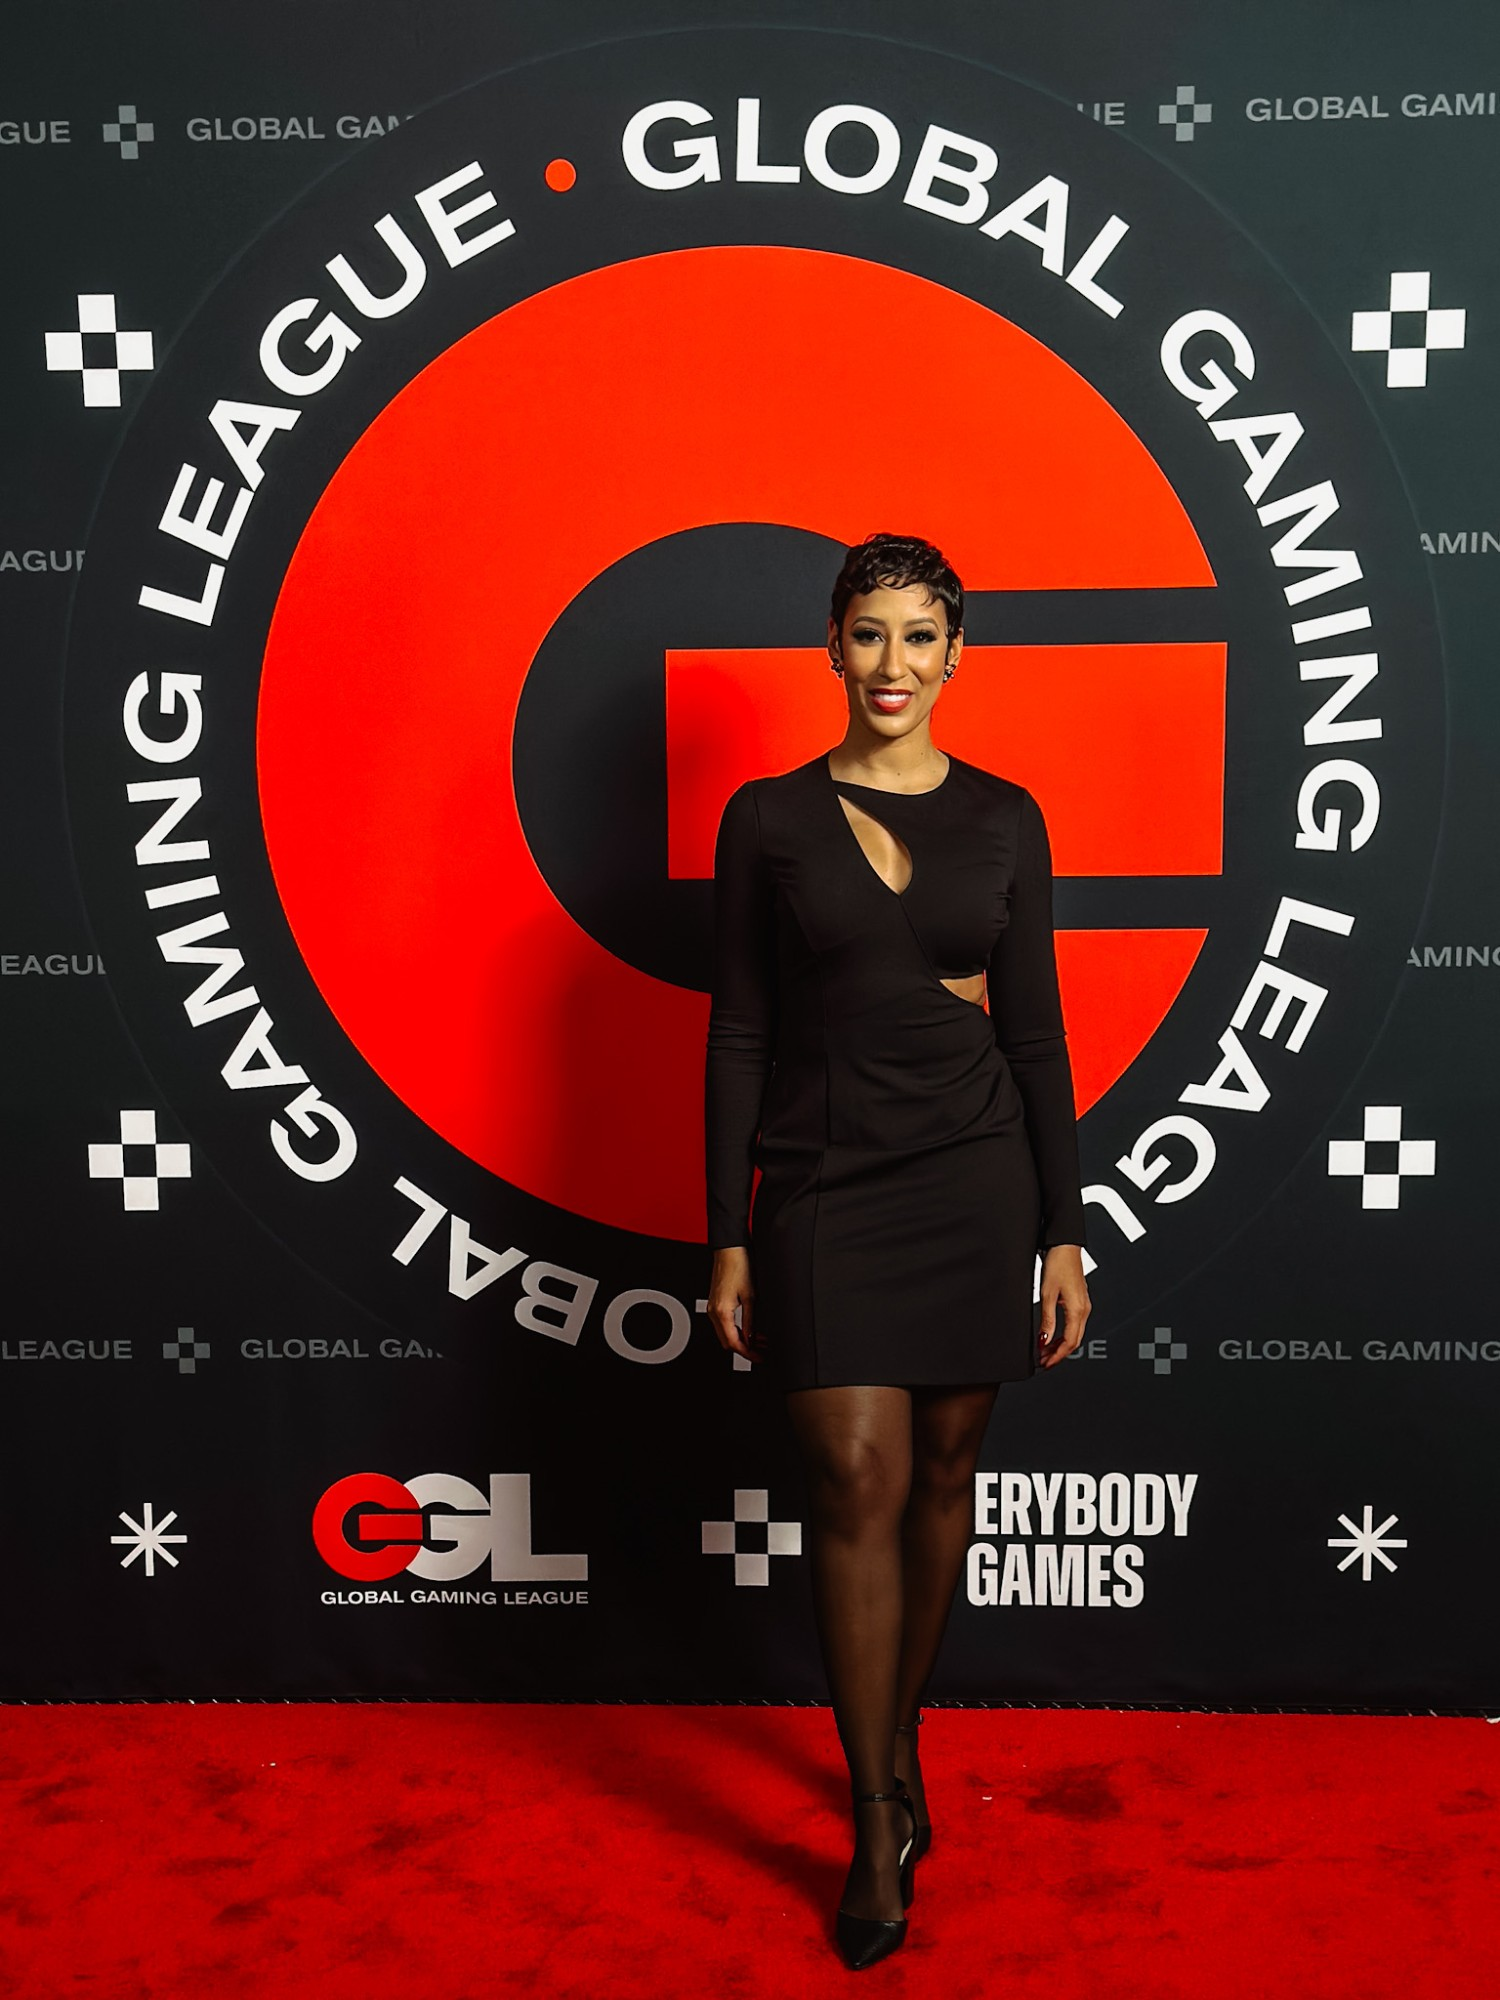
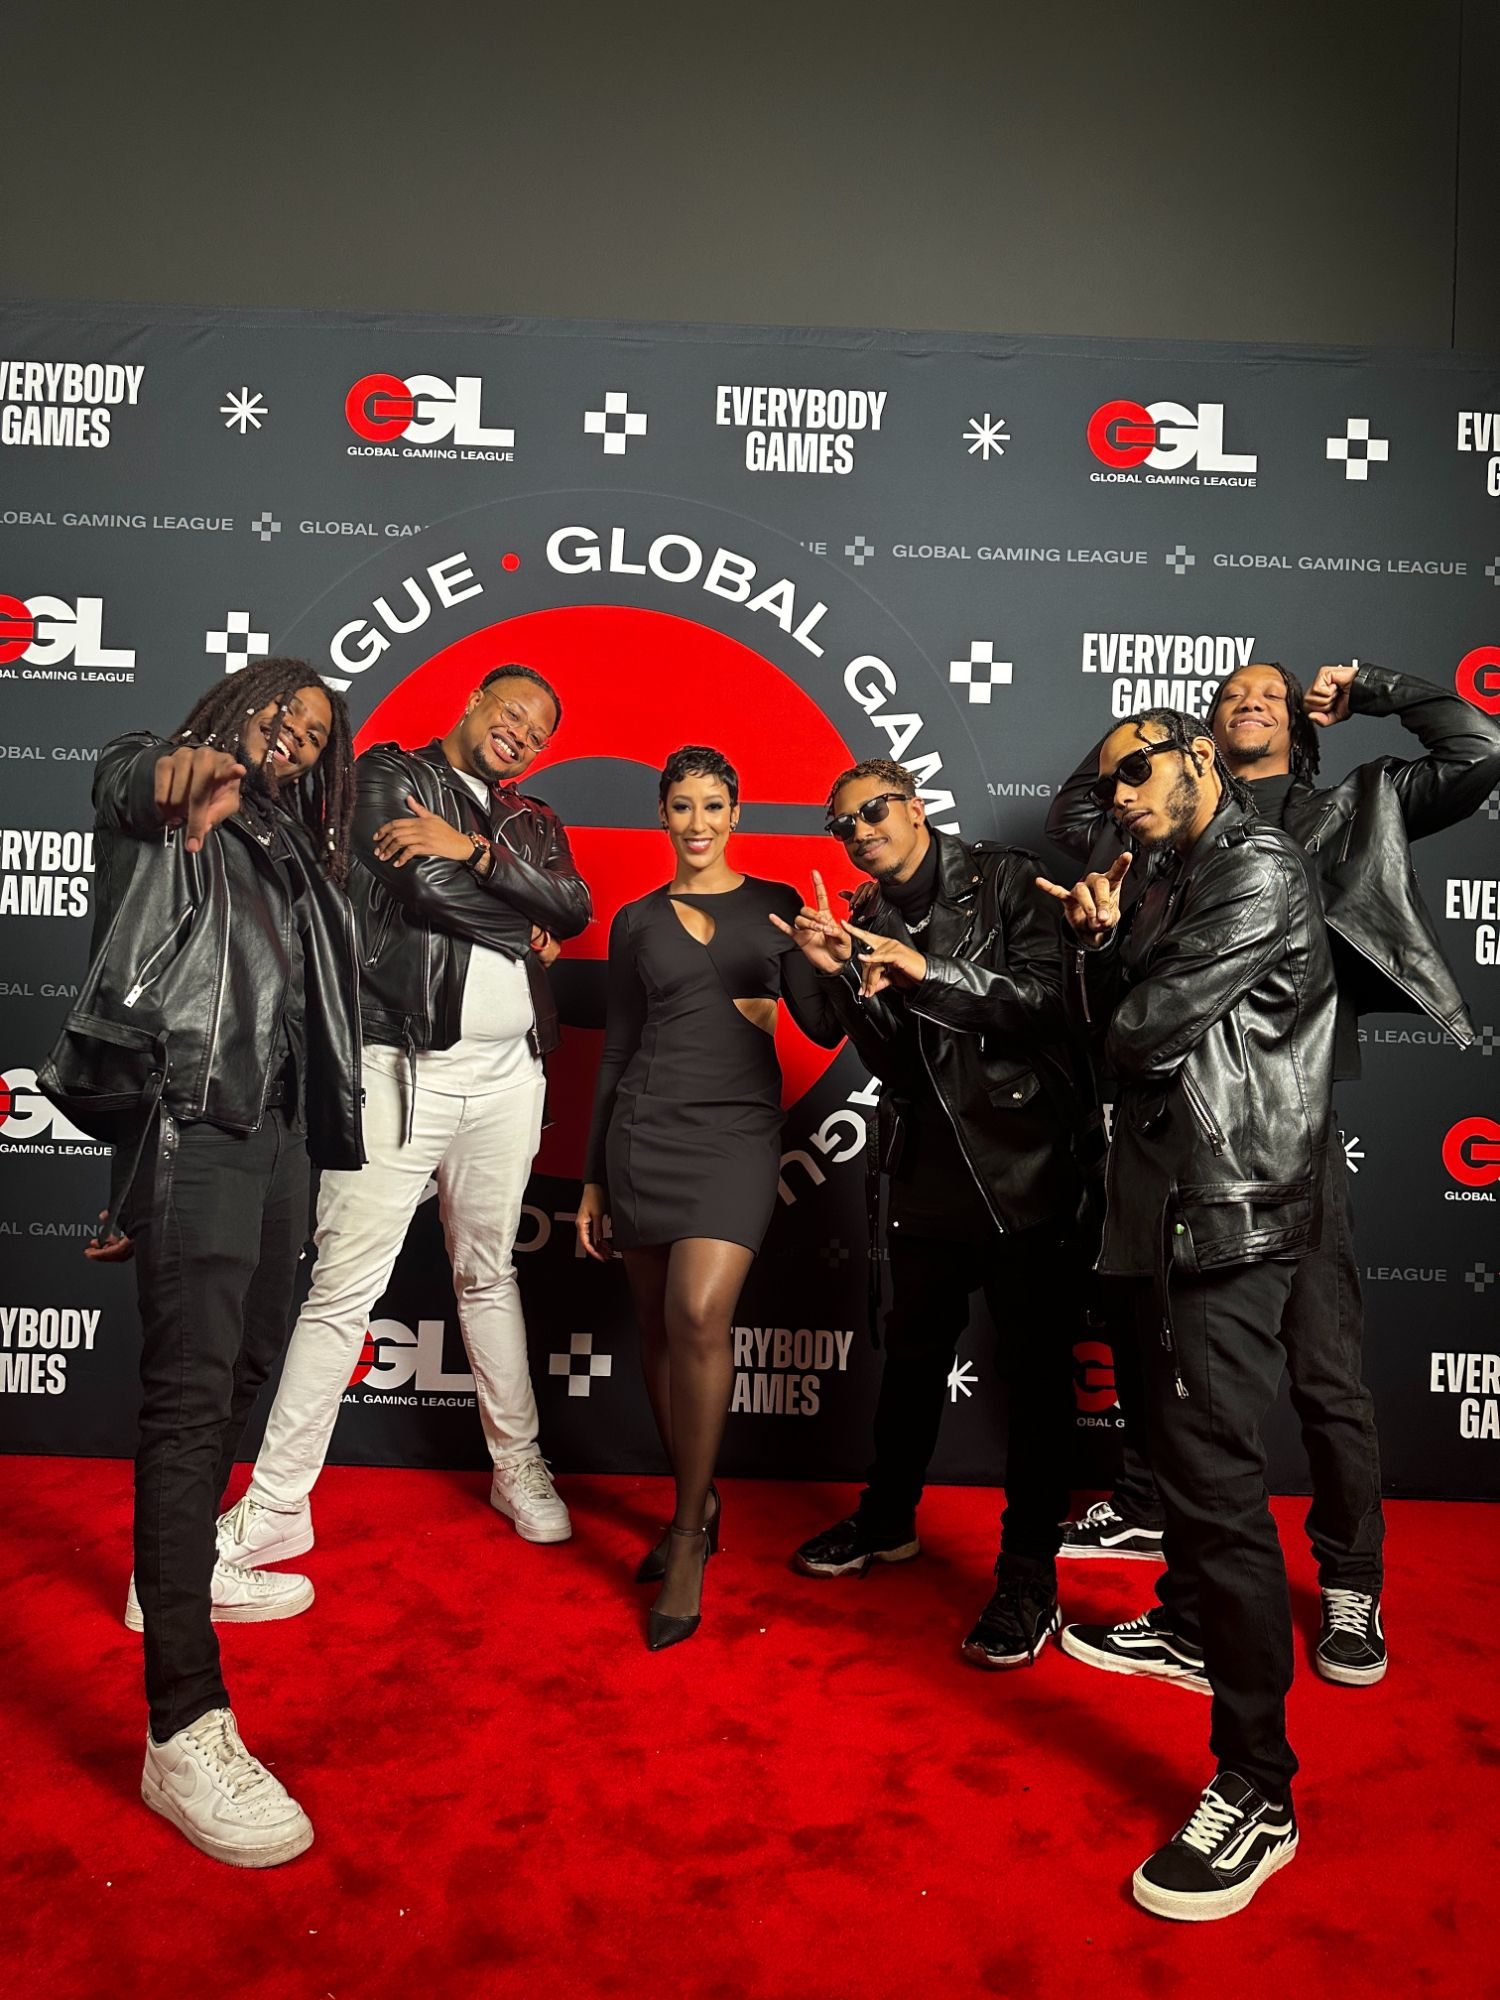
Set GGL hero background to the group red-carpet photo
Use the six-person GGL group shot as the detail-page background,
positioned (50% 50%) so every face clears the top edge and the two
center faces sit above the card on desktop. Add a mobile override
(zoom + lift) to keep the host's face clear of the card where the full
group can't fit on a phone.

Claude-Session: https://claude.ai/code/session_01FEjmKaxiwjKdYgFvJ56WtP

diff --git a/work/global-gaming-league.html b/work/global-gaming-league.html
@@ -12,6 +12,16 @@
   <link rel="preconnect" href="https://fonts.gstatic.com" crossorigin />
   <link rel="stylesheet" href="https://fonts.googleapis.com/css2?family=Archivo:wght@500;600;700;800;900&family=Inter:wght@300;400;500;600&family=Space+Mono:wght@400;700&display=swap" />
   <link rel="stylesheet" href="../css/styles.css" />
+  <style>
+    /* Group-shot background is wide; on phones all six can't fit, so zoom
+       and lift the framing to keep the host's face clear of the card. */
+    @media (max-width: 768px) {
+      .credit--expand .expand__bg {
+        background-size: auto 150% !important;
+        background-position: 46% 74% !important;
+      }
+    }
+  </style>
 </head>
 <body class="credit credit--expand">
 
@@ -31,7 +41,7 @@
 
     <!-- Scroll-to-expand hero -->
     <section class="expand" data-expand aria-label="Global Gaming League">
-      <div class="expand__bg" style="background-image:url('../img/work/global-gaming-league-bg.jpg'); background-position:60% 40%" aria-hidden="true"></div>
+      <div class="expand__bg" style="background-image:url('../img/work/global-gaming-league-bg.jpg'); background-position:50% 50%" aria-hidden="true"></div>
 
       <div class="expand__stage">
         <figure class="expand__media">
